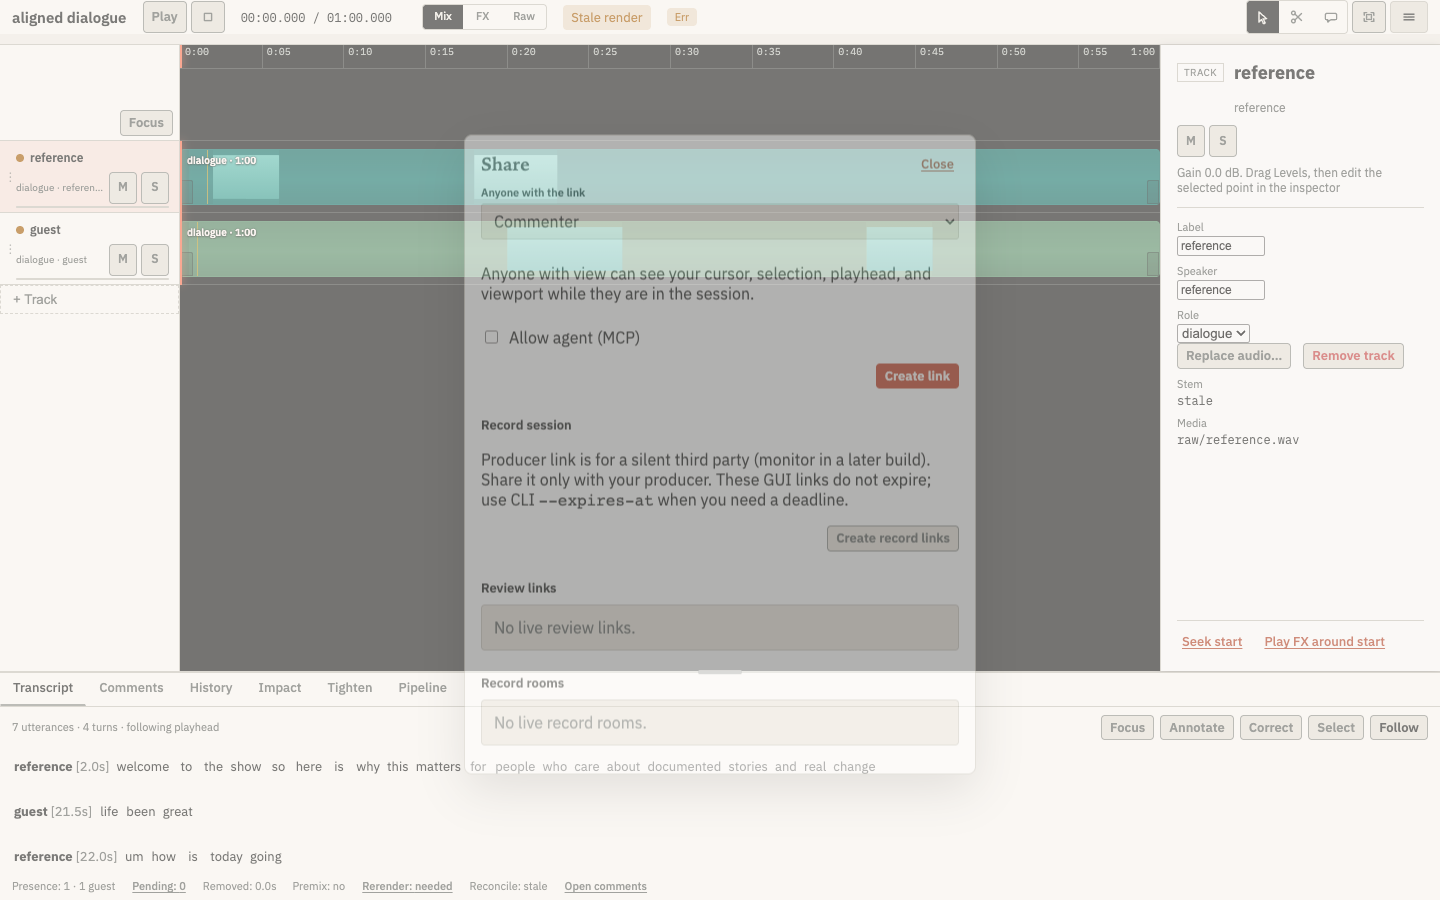
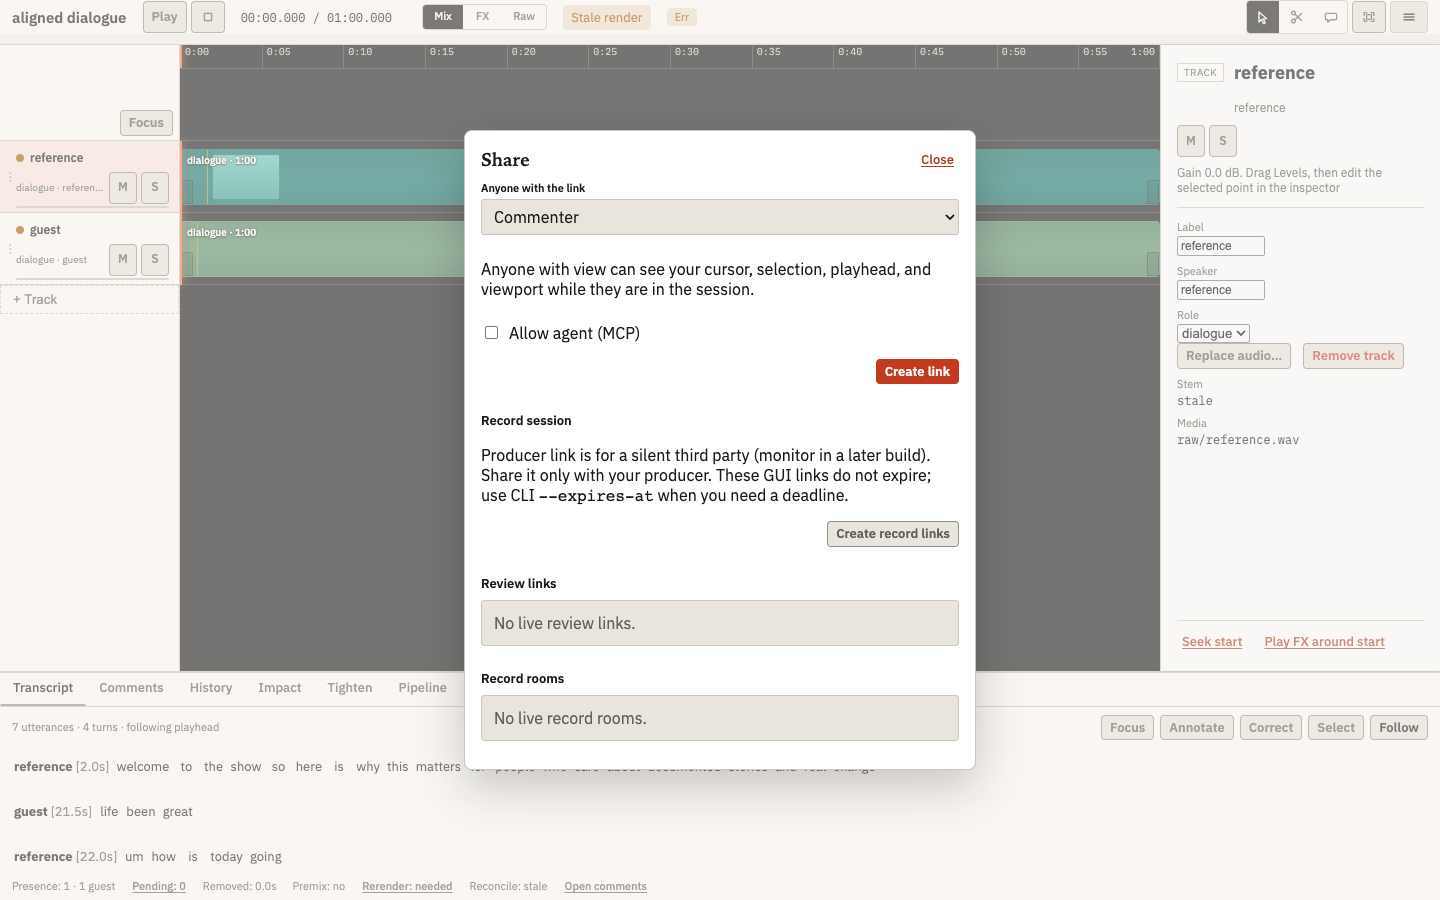
test: stabilize issue 20 screenshot capture

Changed region(s): [[0.3125, 0.1244, 0.6875, 0.8089], [0.3125, 0.84, 0.6562, 0.8711]]

diff --git a/gui/web/e2e/design-polish.spec.ts b/gui/web/e2e/design-polish.spec.ts
@@ -90,6 +90,7 @@ test("capture issue 20 review views", async ({ browser }) => {
     viewport: { width: 1440, height: 900 },
   });
   try {
+    await desktop.emulateMedia({ reducedMotion: "reduce" });
     await desktop.goto(`/?project=${encodeURIComponent(e2eProjectPath)}`);
     await expect(desktop.locator(".lane-row").first()).toBeVisible();
     await expect
@@ -121,6 +122,13 @@ test("capture issue 20 review views", async ({ browser }) => {
     await desktop.getByRole("button", { name: "Menu", exact: true }).click();
     await desktop.getByRole("menuitem", { name: /Share/ }).click();
     await expect(desktop.getByRole("dialog", { name: "Share" })).toBeVisible();
+    await expect
+      .poll(() =>
+        desktop
+          .getByRole("dialog", { name: "Share" })
+          .evaluate((dialog) => getComputedStyle(dialog).opacity),
+      )
+      .toBe("1");
     await desktop.screenshot({
       path: path.join(directory!, "share-dialog.png"),
     });
@@ -147,6 +155,7 @@ test("capture issue 20 review views", async ({ browser }) => {
     viewport: { width: 390, height: 844 },
   });
   try {
+    await phone.emulateMedia({ reducedMotion: "reduce" });
     await phone.goto(`/?project=${encodeURIComponent(e2eProjectPath)}`);
     await expect(
       phone.getByRole("navigation", { name: "Primary" }),
